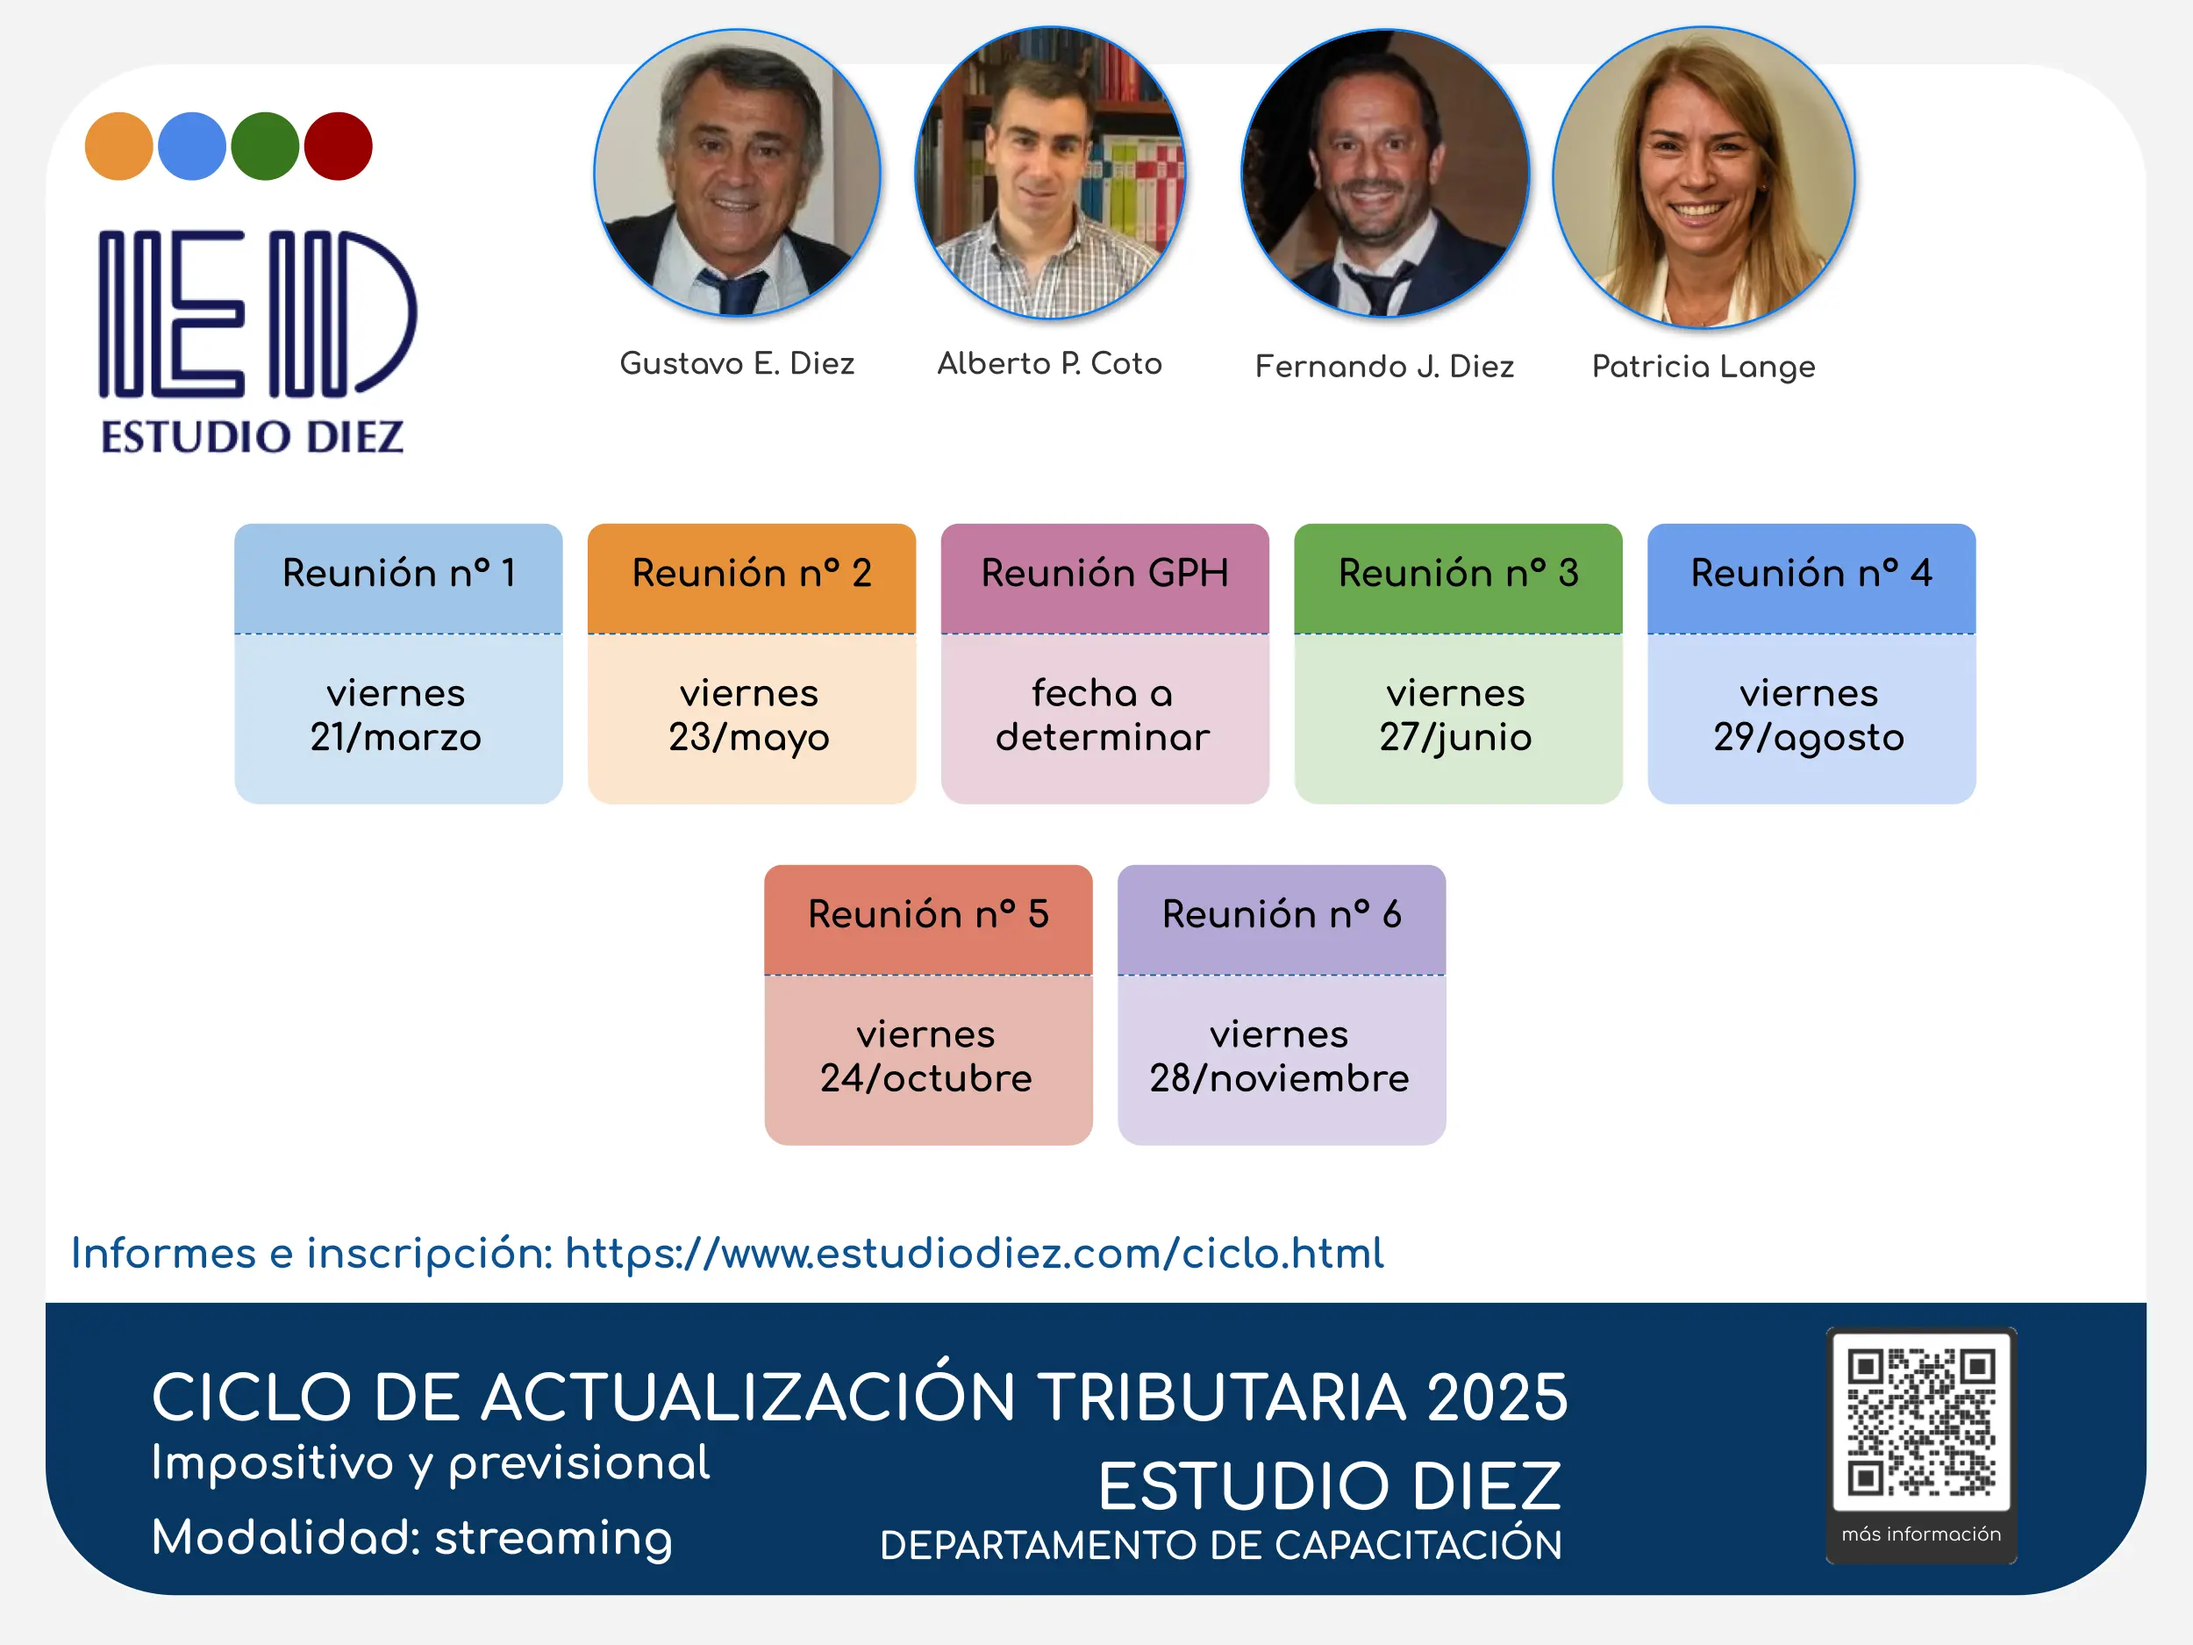
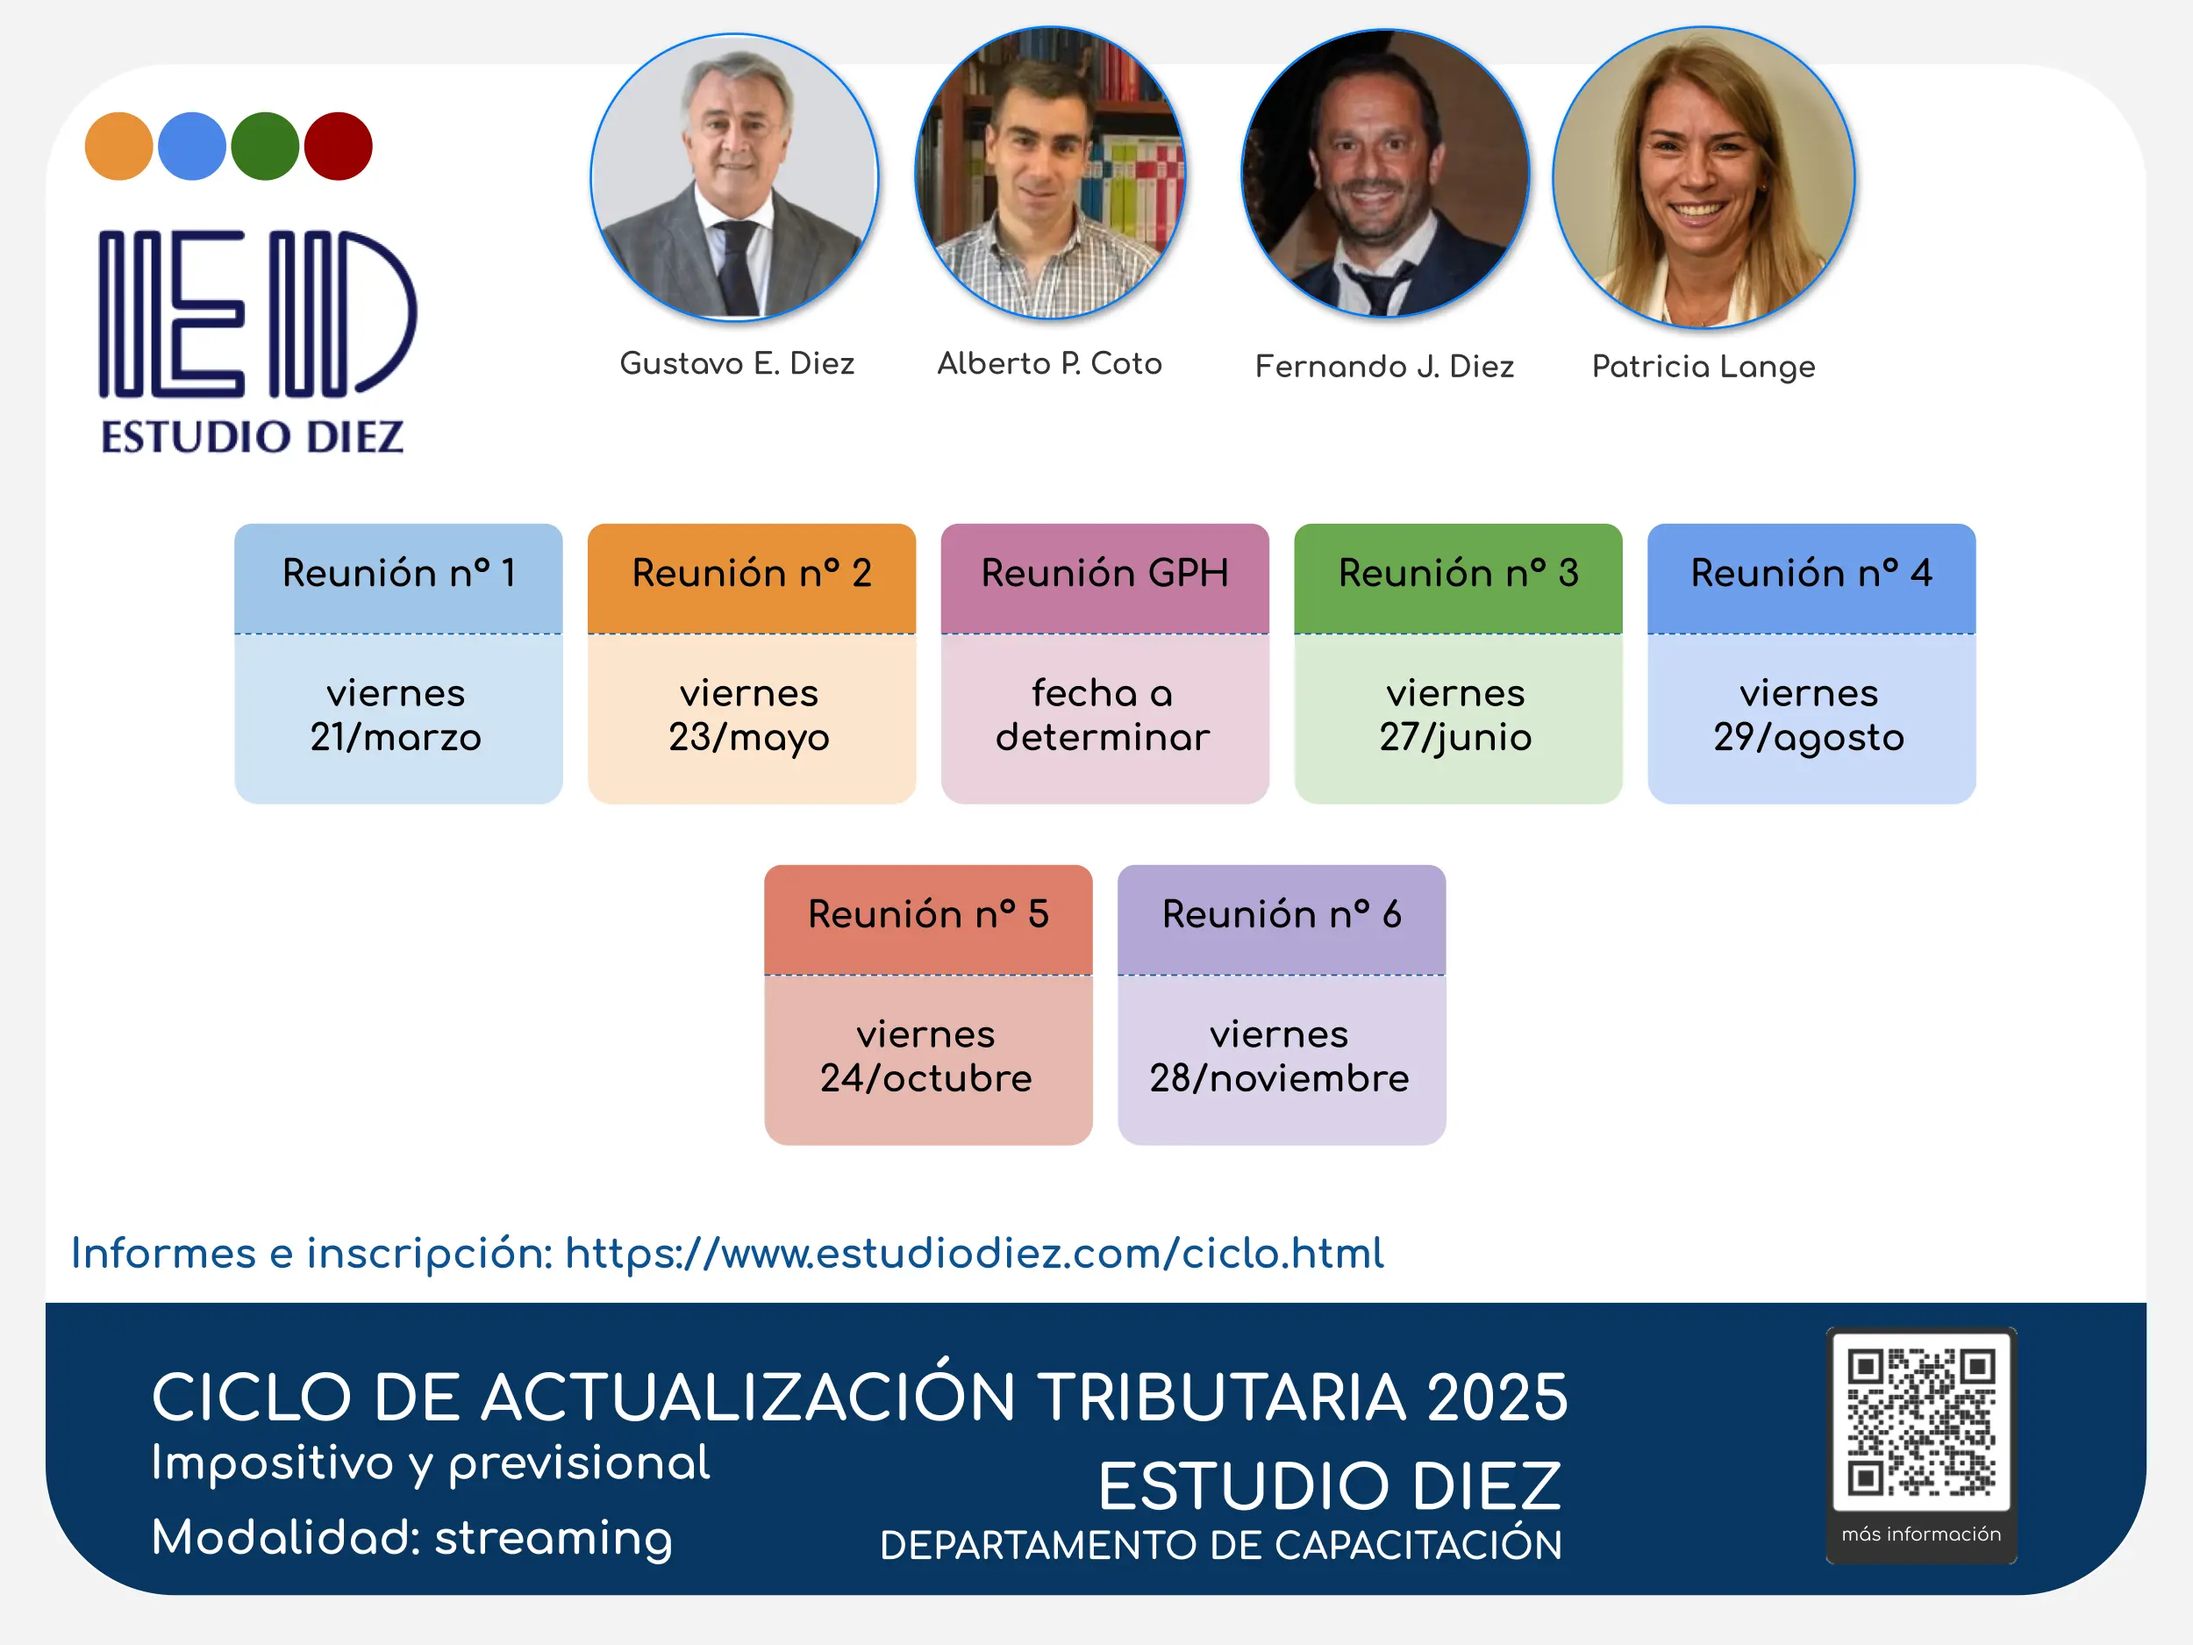
Actualizaciones varias

Changed region(s): [[0.2496, 0.0, 0.4056, 0.2165]]

diff --git a/blog.html b/blog.html
@@ -280,7 +280,7 @@
               <hr class="dropdown-divider">
               <li><a class="dropdown-item" href="blog/03012024-1.html">Vencimientos IIBB ARBA</a></li>
               <hr class="dropdown-divider">
-              <li><a class="dropdown-item" href="blog/14122023-1.html">Vencimientos IIBB Convenio multilateral</a></li>
+              <li><a class="dropdown-item" href="blog/16122024-1.html">Vencimientos IIBB Convenio multilateral</a></li>
             </ul>
           </div>
           <div class="btn-group mb-2">
@@ -307,7 +307,7 @@
         <h1 class="fw-bolder display-4">Ciclo de Actualización Tributaria 2025</h1>
         <p class="lead fw-bolder">Abierta la inscripción</p>
         <hr class="my-4 bg-success">
-        <img src="images/gustavo.jpg" alt="Gustavo Diez" class="rounded-circle border border-primary border-3 mb-1"
+        <img src="images/gustavo.webp" alt="Gustavo Diez" class="rounded-circle border border-primary border-3 mb-1"
           data-bs-toggle="tooltip" data-bs-placement="top" title="Gustavo E. Diez" style="width:6rem; opacity: 0.5;">
         <img src="images/coto.png" alt="Alberto Coto"
           class="rounded-circle border border-success border-3 ms-1 me-1 mb-1" data-bs-toggle="tooltip"

diff --git a/blog/16122024-1.html b/blog/16122024-1.html
@@ -83,7 +83,7 @@
           </blockquote>
         </div>
         <div class="alert alert-warning mb-3" role="alert">
-          <h5 class="text-justify h4-a lead text-dark"><i class="bi bi-arrow-right-square-fill h2-a text-warning"></i> Se establecen los <span class="text-wrap text-dark badge bg-warning">vencimientos 2024</span> para los contribuyentes de Convenio multilateral <span class="text-wrap text-dark badge bg-warning">(CM03 | CM04 | CM05)</span> </h5>
+          <h5 class="text-justify h4-a lead text-dark"><i class="bi bi-arrow-right-square-fill h2-a text-warning"></i> Se establecen los <span class="text-wrap text-dark badge bg-warning">vencimientos 2025</span> para los contribuyentes de Convenio multilateral <span class="text-wrap text-dark badge bg-warning">(CM03 | CM04 | CM05)</span> </h5>
         </div>
 
         <!-- Button trigger modal -->

diff --git a/eventos.html b/eventos.html
@@ -141,7 +141,7 @@
       <div class="col-sm-5">
         <div class="card border-0">
           <div class="pt-3 text-center">
-            <img src="images/gustavo.jpg" alt="Gustavo Diez" class="rounded-circle border border-primary border-3"
+            <img src="images/gustavo.webp" alt="Gustavo Diez" class="rounded-circle border border-primary border-3"
               data-bs-toggle="tooltip" data-placement="top" title="Gustavo E. Diez" style="width:20%; opacity: 0.5;">
             <img src="images/alberto.jpg" alt="Alberto Coto"
               class="rounded-circle border border-success border-3 mr-1 ml-1" data-bs-toggle="tooltip"

diff --git a/ciclo.html b/ciclo.html
@@ -142,7 +142,7 @@
         </h1>
       </div>
       <div class="col mt-4 mb-4 me-auto">
-        <img src="images/gustavo.jpg" alt="Gustavo Diez" class="rounded-circle border border-primary border-3 mb-1"
+        <img src="images/gustavo.webp" alt="Gustavo Diez" class="rounded-circle border border-primary border-3 mb-1"
           data-bs-toggle="tooltip" data-bs-placement="top" title="Gustavo E. Diez" style="width: 6rem; opacity: 0.5" />
         <img src="images/coto.png" alt="Alberto Coto"
           class="rounded-circle border border-success border-3 mb-1 ms-1 me-1" data-bs-toggle="tooltip"
